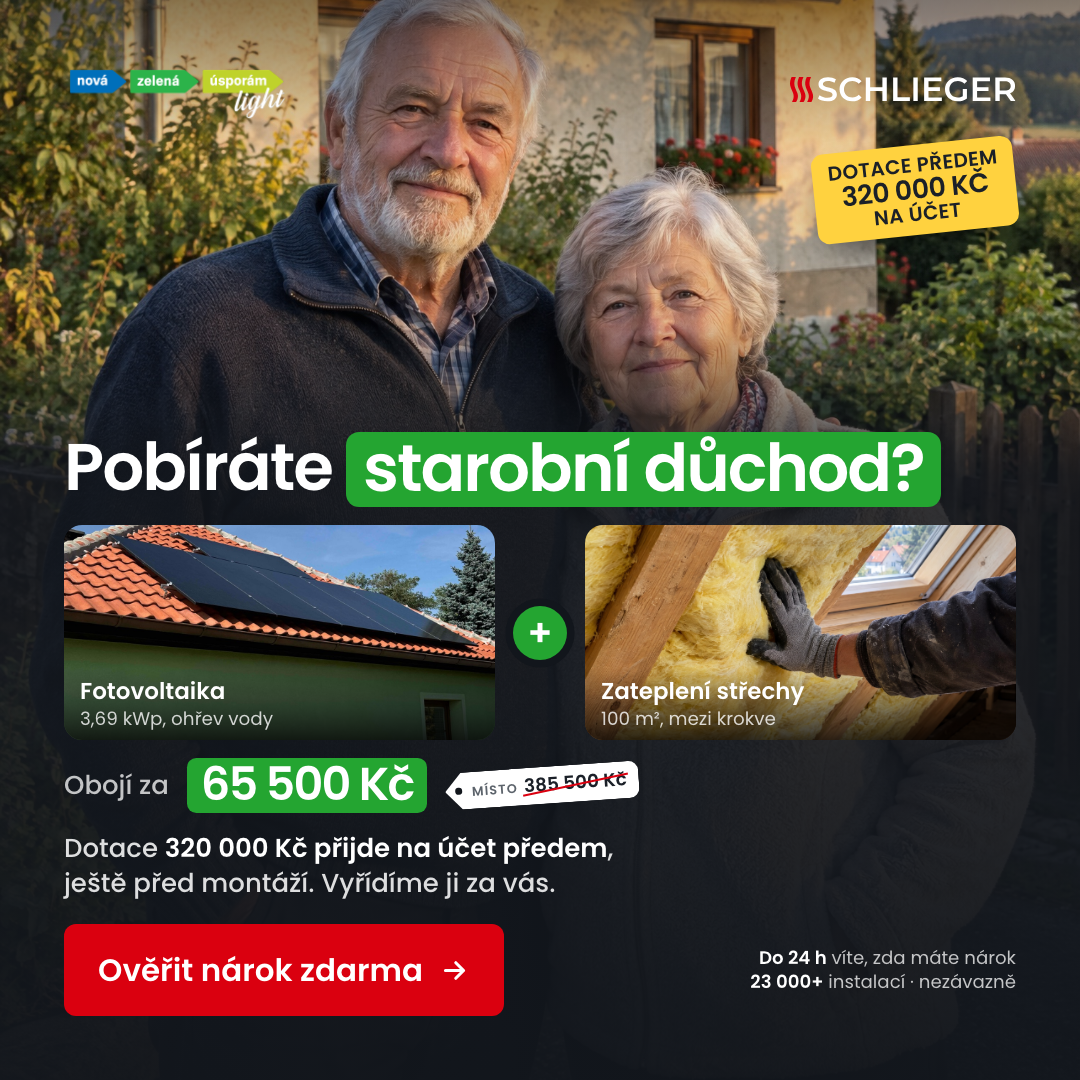
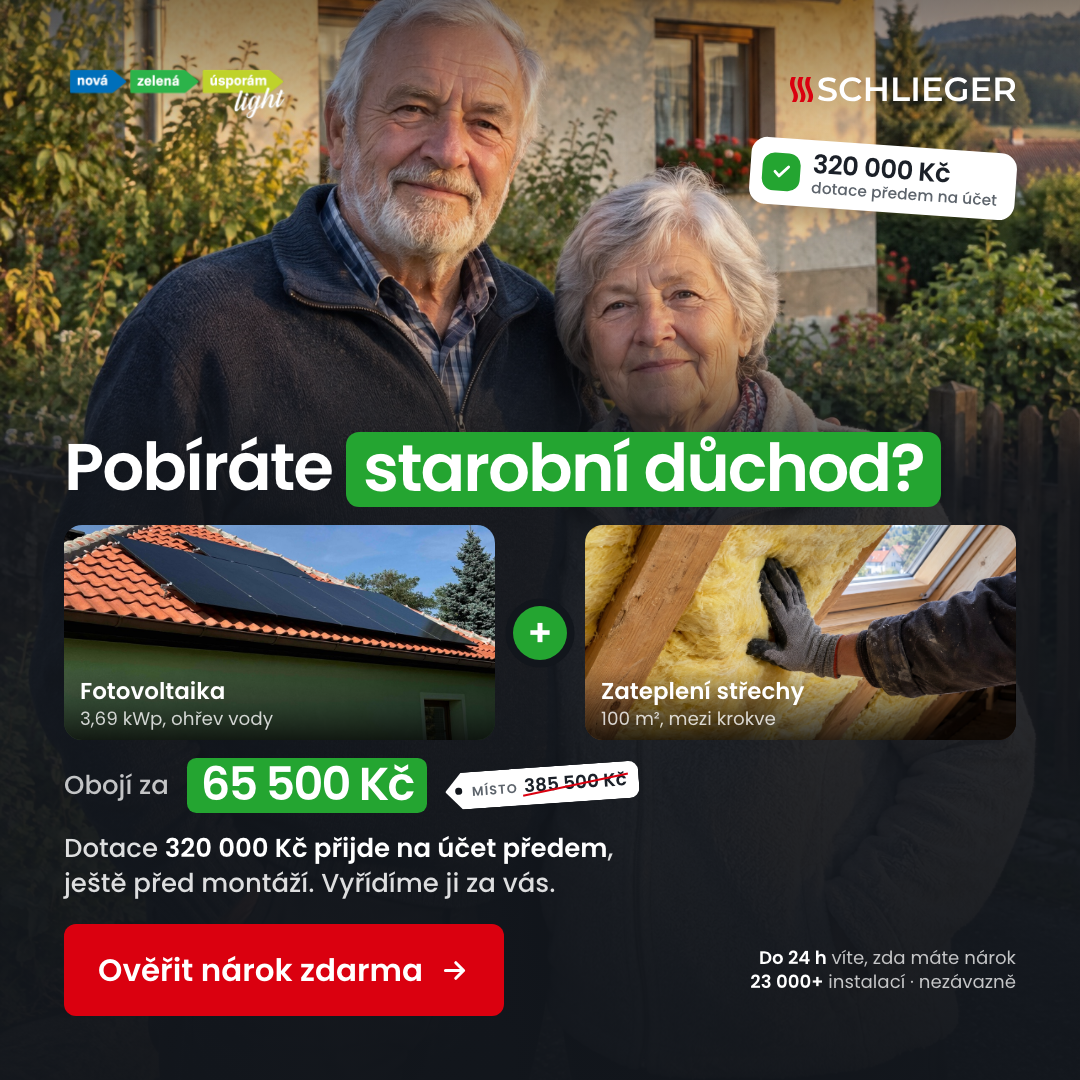
Bannery Meta v2: bílý badge s fajfkou místo žluté nálepky, zelený blok v otázce místo zeleného textu

Changed region(s): [[0.6722, 0.1222, 0.9472, 0.2444]]

diff --git a/banners/template.html b/banners/template.html
@@ -40,8 +40,11 @@ html,body{margin:0;background:#12161C;font-family:P,system-ui,sans-serif;color:#
 .cta svg{width:1em;height:1em}
 .trust{font-size:calc(var(--sub)*.7);color:rgba(255,255,255,.75);text-align:right;line-height:1.35;flex:1;min-width:0}
 .trust b{color:#fff;font-weight:600}
-.stick{position:absolute;right:var(--px);top:calc(var(--pt) + var(--logo)*1.35);background:#FFD23F;color:#1B2028;font-weight:600;font-size:var(--sf);line-height:1.05;text-align:center;padding:.5em .8em;border-radius:12px;transform:rotate(-6deg);box-shadow:0 14px 34px -12px rgba(0,0,0,.7);text-transform:uppercase;letter-spacing:.02em}
-.stick b{display:block;font-size:1.35em;letter-spacing:-.02em}
+.stick{position:absolute;right:var(--px);top:calc(var(--pt) + var(--logo)*1.35);display:inline-flex;align-items:center;gap:calc(var(--sf)*.6);background:#fff;color:var(--ink);padding:calc(var(--sf)*.55) calc(var(--sf)*.9) calc(var(--sf)*.55) calc(var(--sf)*.6);border-radius:calc(var(--sf)*.8);transform:rotate(4deg);box-shadow:0 14px 36px -10px rgba(0,0,0,.45)}
+.stick i{flex:none;width:calc(var(--sf)*1.9);height:calc(var(--sf)*1.9);border-radius:32%;background:var(--green);display:grid;place-items:center}
+.stick i svg{width:60%;height:60%}
+.stick b{display:block;font-size:calc(var(--sf)*1.3);font-weight:600;letter-spacing:-.02em;line-height:1}
+.stick small{display:block;font-size:calc(var(--sf)*.78);font-weight:500;color:var(--ink-3);line-height:1.1;margin-top:.15em}
 .safe{position:absolute;left:0;right:0;background:rgba(255,0,0,.25);z-index:9;pointer-events:none}
 </style>
 <div class="b" id="b"><div class="bg"></div><div class="ov"></div><div class="top" id="top"></div><div class="in" id="in"></div></div>
@@ -64,7 +67,7 @@ const T={
 };
 const t=T[A];
 document.getElementById('top').innerHTML='<img class="nzu" src="../assets/img/nzu-light-logo-dark.png"><img class="sch" src="../assets/img/schlieger-logo-white.svg">';
-const st=document.createElement('div'); st.className='stick'; st.innerHTML='Dotace předem<b>320 000 Kč</b>na účet'; if(tall){st.style.top='calc(var(--pt) + var(--logo)*1.6)';} b.appendChild(st);
+const st=document.createElement('div'); st.className='stick'; st.innerHTML='<i><svg viewBox="0 0 24 24" fill="none" stroke="#fff" stroke-width="3" stroke-linecap="round" stroke-linejoin="round"><path d="M5 12.5l4.5 4.5L19 7"/></svg></i><span><b>320 000 Kč</b><small>dotace předem na účet</small></span>'; if(tall){st.style.top='calc(var(--pt) + var(--logo)*1.6)';} b.appendChild(st);
 document.getElementById('in').innerHTML=`
   <div class="q">${t.q}</div>
   <div class="tiles">
